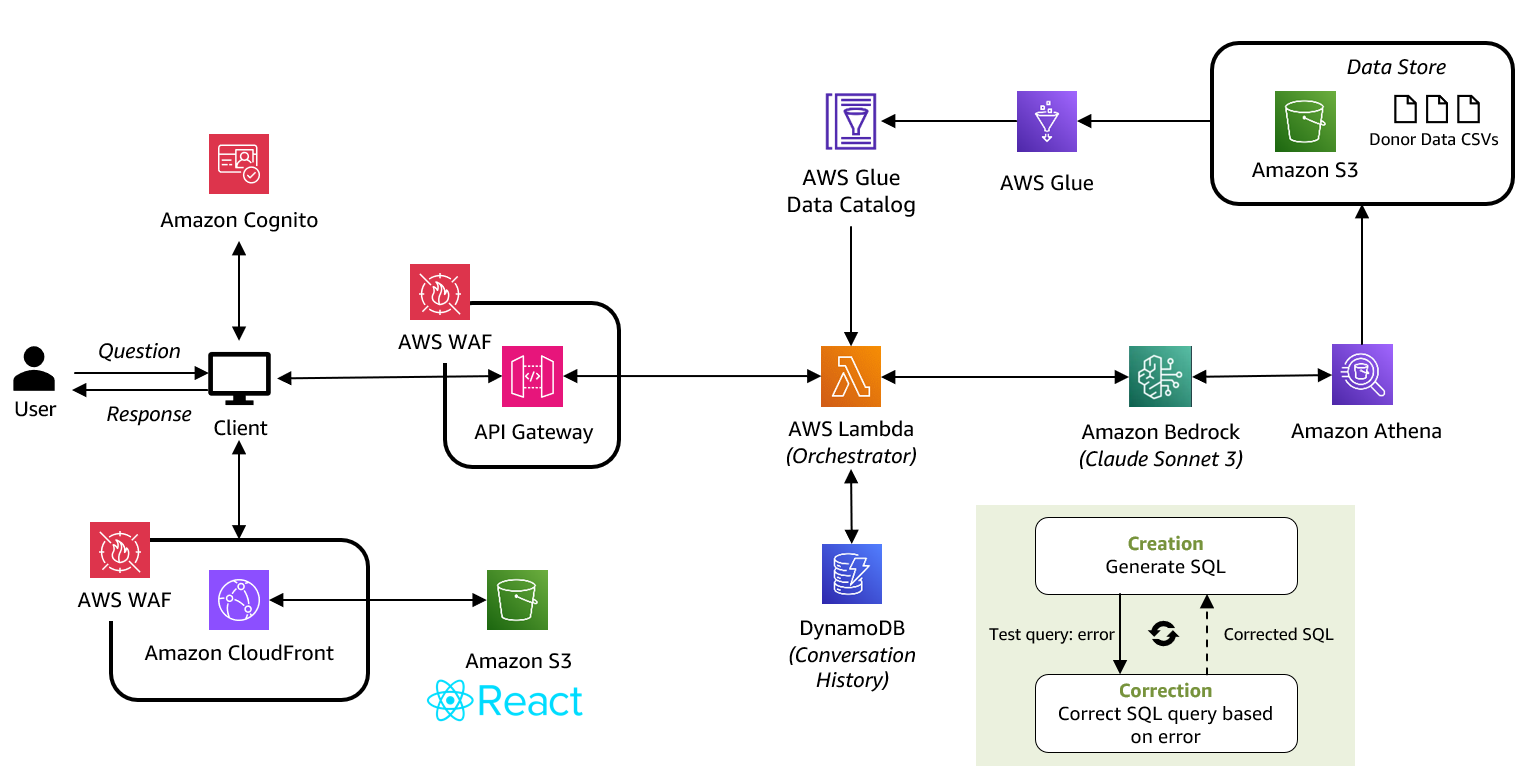
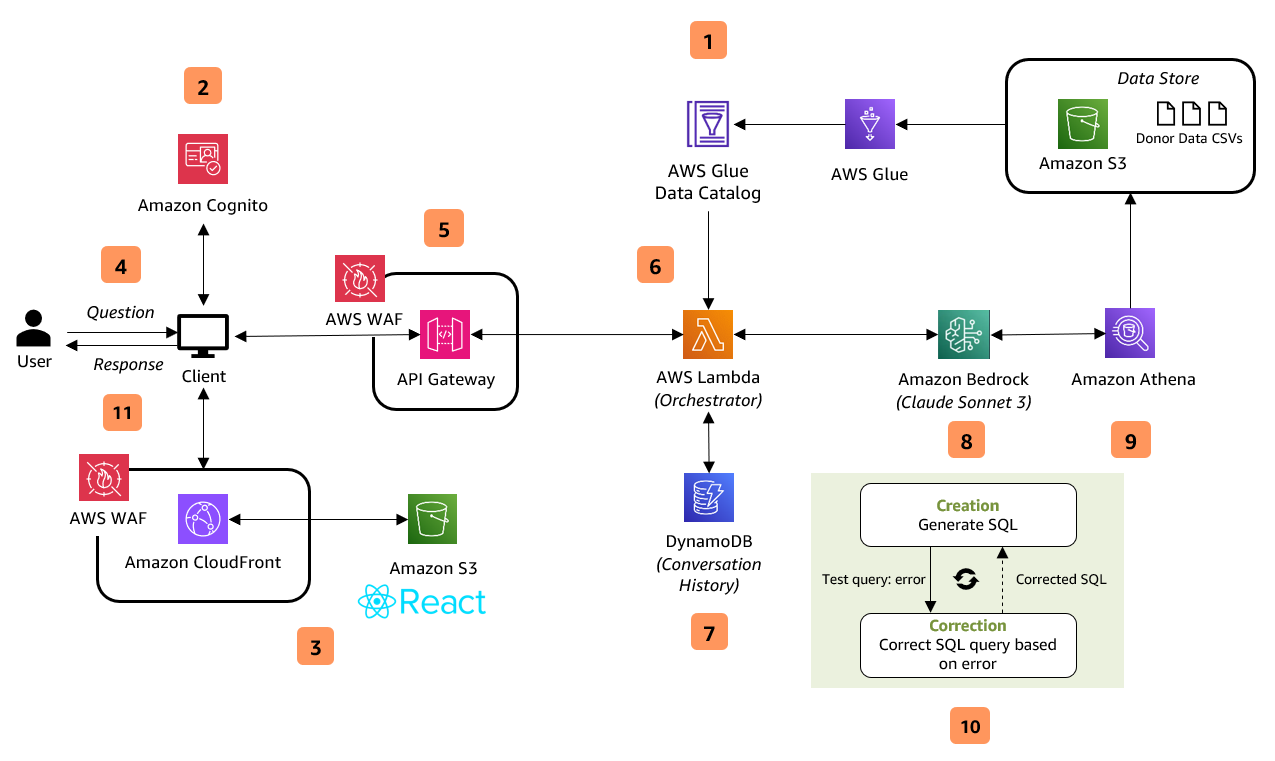
updated readme

diff --git a/README.md b/README.md
@@ -24,6 +24,29 @@ There are four cdk stacks:
 
 ![Architecture](imgs/nlq-architecture.PNG)
 
+1. AWS Glue crawls the data stores and adds schema and table metadata to the Glue data catalog. 
+
+2. The user is authenticated via Amazon Cognito. 
+
+3. The client fetches the static, single page application (SPA) hosted in S3. Client IPs are validated by the WAF. 
+
+4. The user submits a question through the React user interface.  
+
+5. The Cognito session authorizes a POST call to API Gateway. The WAF uses the standard ruleset to evaluate the traffic. 
+
+6. AWS Lambda receives the API gateway event and orchestrates the backend. 
+
+7. The conversation history is pulled from DynamoDB as context. 
+
+8. Amazon Bedrock uses the metadata from the data store + the user’s question as context to generate a SQL query. The SQL query is tested. If an error occurs, the LLM generates a new query and tests again. This retry loop can occur up to 3 times. 
+
+9. The generated SQL query is executed with Amazon Athena against the original data store. 
+
+10. The SQL query result is returned to Amazon Bedrock and is used as context to generate a conversational response to the user’s query. 
+
+11. The response is submitted through the front-end to the user. 
+
+
 ## Directory Structures
 
 ```sh
@@ -46,6 +69,8 @@ There are four cdk stacks:
 - react-scripts
 - ts-node
 - typescript
+
+# Deploying the solution
 
 ## Prerequisites
 
@@ -120,7 +145,12 @@ FrontendStack.endpoint = xxx.cloudfront.net
 - In order to sign in the app, you need to create a new cognito user. You can create a user by AWS Management Console or AWS CLI.
 
 
-## 
+## Experimenting with the Chatbot
+
+The sample dataset follows a dimensional model of synthetic donor data. Donation transactions are stored in a central fact table with auxillary information like donors, events, campaigns and payment method stored in dimension tables. 
+
+![donor-data-erd](imgs/donor-erd.PNG)
+
 
 
 ## Security
